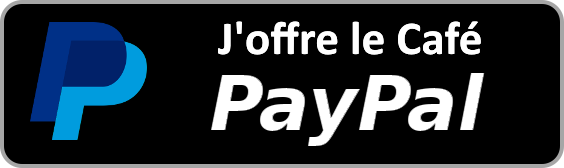
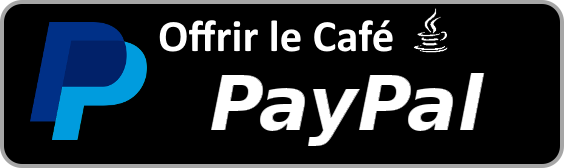
Update Footer & Ressources Small screens

Changed region(s): [[0.2713, 0.0595, 0.8741, 0.3274]]

diff --git a/src/app/header/header.component.html b/src/app/header/header.component.html
@@ -18,7 +18,7 @@
                         <li id="etape2" class="pierre">
                             <a class="btn"
                                 ngbTooltip="Production par heure : {{informationRessourcesJoueur.apportPierreSeconde * 3600}}">
-                                <fa-icon [icon]="iconeStopWatch"></fa-icon> Pierre : <b
+                                <span class="nom-ressource">Pierre : </span><b
                                     [ngStyle]="{color:getColorApprocheLimitePierre()}">{{informationRessourcesJoueur.pierrePossession}}/{{informationRessourcesJoueur.quantiteMaximaleStockagePierre}}</b>
                             </a>
                         </li>
@@ -27,7 +27,7 @@
                         <li id="etape3" class="bois">
                             <a class="btn"
                                 ngbTooltip="Production par heure : {{informationRessourcesJoueur.apportBoisSeconde * 3600}}">
-                                <fa-icon [icon]="iconeStopWatch"></fa-icon> Bois : <b
+                                <span class="nom-ressource">Bois : </span> <b
                                     [ngStyle]="{color:getColorApprocheLimiteBois()}">{{informationRessourcesJoueur.boisPossession}}/{{informationRessourcesJoueur.quantiteMaximaleStockageBois}}</b>
                             </a>
                         </li>
@@ -36,7 +36,7 @@
                         <li id="etape4" class="or">
                             <a class="btn"
                                 ngbTooltip="Production par heure : {{informationRessourcesJoueur.apportOrSeconde * 3600}}">
-                                <fa-icon [icon]="iconeStopWatch"></fa-icon> Or : <b
+                                <span class="nom-ressource">Or : </span> <b
                                     [ngStyle]="{color:getColorApprocheLimiteOr()}">{{informationRessourcesJoueur.orPossession}}/{{informationRessourcesJoueur.quantiteMaximaleStockageOr}}</b>
                             </a>
                         </li>
@@ -45,7 +45,7 @@
                         <li id="etape5" class="nourriture"
                         ngbTooltip="Production par heure : {{informationRessourcesJoueur.apportNourritureSeconde * 3600}}">
                         <a class="btn">
-                            <fa-icon [icon]="iconeStopWatch"></fa-icon> Nourriture : <b
+                            <span class="nom-ressource">Nourriture : </span> <b
                                 [ngStyle]="{color:getColorApprocheLimiteNourriture()}">{{informationRessourcesJoueur.nourriturePossession}}/{{informationRessourcesJoueur.quantiteMaximaleStockageNourriture}}</b>
                         </a>
                     </li>
@@ -53,7 +53,7 @@
                     <div class="col-sm-2">
                         <li id="etape6" class="gemme">
                             <a class="btn" ngbTooltip="Gain de gemmes en réalisant des expéditions">
-                                <fa-icon [icon]="iconeStopWatch"></fa-icon> Gemmes :
+                                <span class="nom-ressource">Gemmes : </span>
                                 <b>{{informationRessourcesJoueur.gemmePossession}}</b>
                             </a>
                         </li>
@@ -165,7 +165,7 @@
             <ul class="logout" *ngIf="infosJoueur">
                 <li>
                     <a routerLink="aVenir">
-                        <i class="fa fa-question-circle" aria-hidden="true"></i>
+                        <i class="fa fa-clock-o" aria-hidden="true"></i>
                         <span class="nav-text">
                             A venir
                         </span>

diff --git a/src/app/app-routing.module.ts b/src/app/app-routing.module.ts
@@ -9,7 +9,6 @@ import { AccesRefuseComponent } from './erreurNavigation/acces-refuse/acces-refu
 import { StatutManagerService } from './service/statut-manager.service';
 import { AccueilComponent } from './accueil/accueil.component';
 import { ListerJoueurComponent } from './lister-joueur/lister-joueur.component';
-import { VisualiserJoueurComponent } from './visualiser-joueur/visualiser-joueur.component';
 import { MessageComponent } from './message/message.component';
 import { MessagePriveComponent } from './message/message-prive/message-prive.component';
 import { ModifierJoueurComponent } from './joueur/modifier-joueur/modifier-joueur.component';
@@ -60,7 +59,6 @@ const routes: Routes = [
   { path: 'creationCompte', component: CreationCompteComponent},
 
 
-  { path: 'visualisationJoueur/:email', component: VisualiserJoueurComponent, canActivate: [StatutConnecteService] },
   { path: 'modifierJoueur/:email', component: ModifierJoueurComponent, canActivate: [StatutConnecteService, StatutAdministrateurService] },
 
   { path: 'message', component: MessageComponent, canActivate: [StatutConnecteService] },

diff --git a/src/app/footer/footer.component.html b/src/app/footer/footer.component.html
@@ -25,9 +25,9 @@
 				<div class="col-lg-4 lien">
 					<form ngNoForm action="https://www.paypal.com/donate" method="post" target="_top">
 						<input type="hidden" name="hosted_button_id" value="CMUXMY97NT4H6" />
-						<input type="image" src="https://media.discordapp.net/attachments/794876433842831361/812741886200643594/paypal.png"
+						<input type="image" src="https://media.discordapp.net/attachments/794876433842831361/813542554036338789/paypal.png"
 							border="0" name="submit" 
-							alt="Donation avec le bouton PayPal"  style="width: 130px;" ngbTooltip="Oh ? Vraiment ?! Vous allez cliquer ?!? Déjà d'avoir posé votre souris sur le bouton... ça sent bon cette histoire !" />
+							alt="Donation avec le bouton PayPal"  style="width: 130px;" ngbTooltip="Oh, vraiment ? Vous allez cliquer ?! Déjà, d'avoir posé votre souris sur le bouton... ça sent bon cette histoire !" />
 						<img alt="" border="0" src="https://www.paypal.com/fr_FR/i/scr/pixel.gif" width="1"
 							height="1" />
 					</form>

diff --git a/src/app/app.module.ts b/src/app/app.module.ts
@@ -21,7 +21,6 @@ import { JoueurService } from './service/joueur.service';
 import { FullCalendarModule } from '@fullcalendar/angular';
 import { AccueilComponent } from './accueil/accueil.component';
 import { ListerJoueurComponent } from './lister-joueur/lister-joueur.component';
-import { VisualiserJoueurComponent } from './visualiser-joueur/visualiser-joueur.component';
 import { MessageComponent } from './message/message.component';
 import { MessageService } from './service/message.service';
 import { MessagePriveComponent } from './message/message-prive/message-prive.component';
@@ -88,7 +87,6 @@ import { TantPisComponent } from './divers/tant-pis/tant-pis.component';
     FourOhFourComponent,
     AccueilComponent,
     ListerJoueurComponent,
-    VisualiserJoueurComponent,
     MessageComponent,
     MessagePriveComponent,
     ModifierJoueurComponent,

diff --git a/src/app/social/liste-amis/liste-amis.component.ts b/src/app/social/liste-amis/liste-amis.component.ts
@@ -33,15 +33,18 @@ export class ListeAmisComponent implements OnInit {
     this.listeAmis = [];
     this.listeAmisService.lister().subscribe(
       (value) => {
-        value.listeDAmis.forEach(element => {
-          this.listeVide = false;
+        if(value.proprietaireListe!=null) {
+          value.listeDAmis.forEach(element => {
+            this.listeVide = false;
+  
+            this.joueurService.informationJoueurById(element).subscribe(
+              (donnees) => {
+                this.listeAmis.push(donnees);
+              }
+            );
+          });
+        }
 
-          this.joueurService.informationJoueurById(element).subscribe(
-            (donnees) => {
-              this.listeAmis.push(donnees);
-            }
-          );
-        });
       }
     );
   }

diff --git a/src/app/social/guilde/ma-guilde/ma-guilde/ma-guilde.component.html b/src/app/social/guilde/ma-guilde/ma-guilde/ma-guilde.component.html
@@ -2,6 +2,12 @@
     <!-- titre page -->
     <div class="divider-custom divider-light">
         <div class="divider-custom-line"></div>
+        <div class="divider-custom-titre">Travaux en cours</div>
+        <div class="divider-custom-line"></div>
+    </div>
+    <div id="image"></div>
+<!--     <div class="divider-custom divider-light">
+        <div class="divider-custom-line"></div>
         <div class="divider-custom-titre">MA GUILDE</div>
         <div class="divider-custom-line"></div>
     </div>
@@ -21,6 +27,6 @@
                 <button class="btn btn-success">Rechercher guilde</button>
             </a>
         </div>
-    </div>
+    </div> -->
 
 </div>

diff --git a/src/app/social/guilde/ma-guilde/ma-guilde/ma-guilde.component.scss b/src/app/social/guilde/ma-guilde/ma-guilde/ma-guilde.component.scss
@@ -4,3 +4,16 @@
 .btn {
     box-shadow: 1.5px 1.5px 1.5px rgb(0, 0, 0);
 }
+
+
+#image {
+    height: 410px;
+    width: 500px;
+    background-image: url("../../../../../images/travaux.png");
+    background-repeat: no-repeat;
+    background-size: contain;
+    border-image-outset: 7px 12px 14px 5px;
+    margin: 0 auto;
+    text-align: center;
+    margin-top: 10%;
+  }

diff --git a/src/app/header/header.component.scss b/src/app/header/header.component.scss
@@ -206,3 +206,15 @@ nav.main-menu li.active > a,
         url(http://themes.googleusercontent.com/static/fonts/titilliumweb/v2/anMUvcNT0H1YN4FII8wpr24bNCNEoFTpS2BTjF6FB5E.woff)
             format("woff");
 }
+
+
+
+
+
+// 200px -> 1300px 
+@media screen and (min-width: 200px) and (max-width: 1300px) {
+    .nom-ressource{
+        display:none;
+    }
+
+  }

diff --git a/src/app/divers/annonce-a-venir/annonce-a-venir.component.html b/src/app/divers/annonce-a-venir/annonce-a-venir.component.html
@@ -13,6 +13,9 @@
             - Système de <b>Guilde</b>.<br>
             - <b>Attaque</b> entre joueurs.<br>
             - <b>Tutoriel</b> complet.<br>
+            - <b>Rapports</b> de combat.<br>
+            - Ajout d'un <b>Inventaire</b>.<br>
+            - 100% <b>Responsive</b> téléphones.<br>
 		</p>
 		<div id="image"></div>
 	</div>

diff --git a/src/app/expedition/detail-expedition/detail-expedition.component.ts b/src/app/expedition/detail-expedition/detail-expedition.component.ts
@@ -72,7 +72,6 @@ export class DetailExpeditionComponent implements OnInit {
     this.batimentJoueurService.rechercheBatimentJoueur(18).subscribe(
       (value) => {
         this.niveauTableExpedition = value.niveau;
-        console.log(this.niveauTableExpedition);
       }
     );
 

diff --git a/src/app/expedition/detail-expedition/detail-expedition.component.scss b/src/app/expedition/detail-expedition/detail-expedition.component.scss
@@ -211,7 +211,7 @@ body {
   grid-gap: 50px; */
     justify-content: center;
     align-items: center;
-    height: 100vh;
+    height: 75vh;
     font-family: "Baloo Paaji 2", cursive;
 }
 
